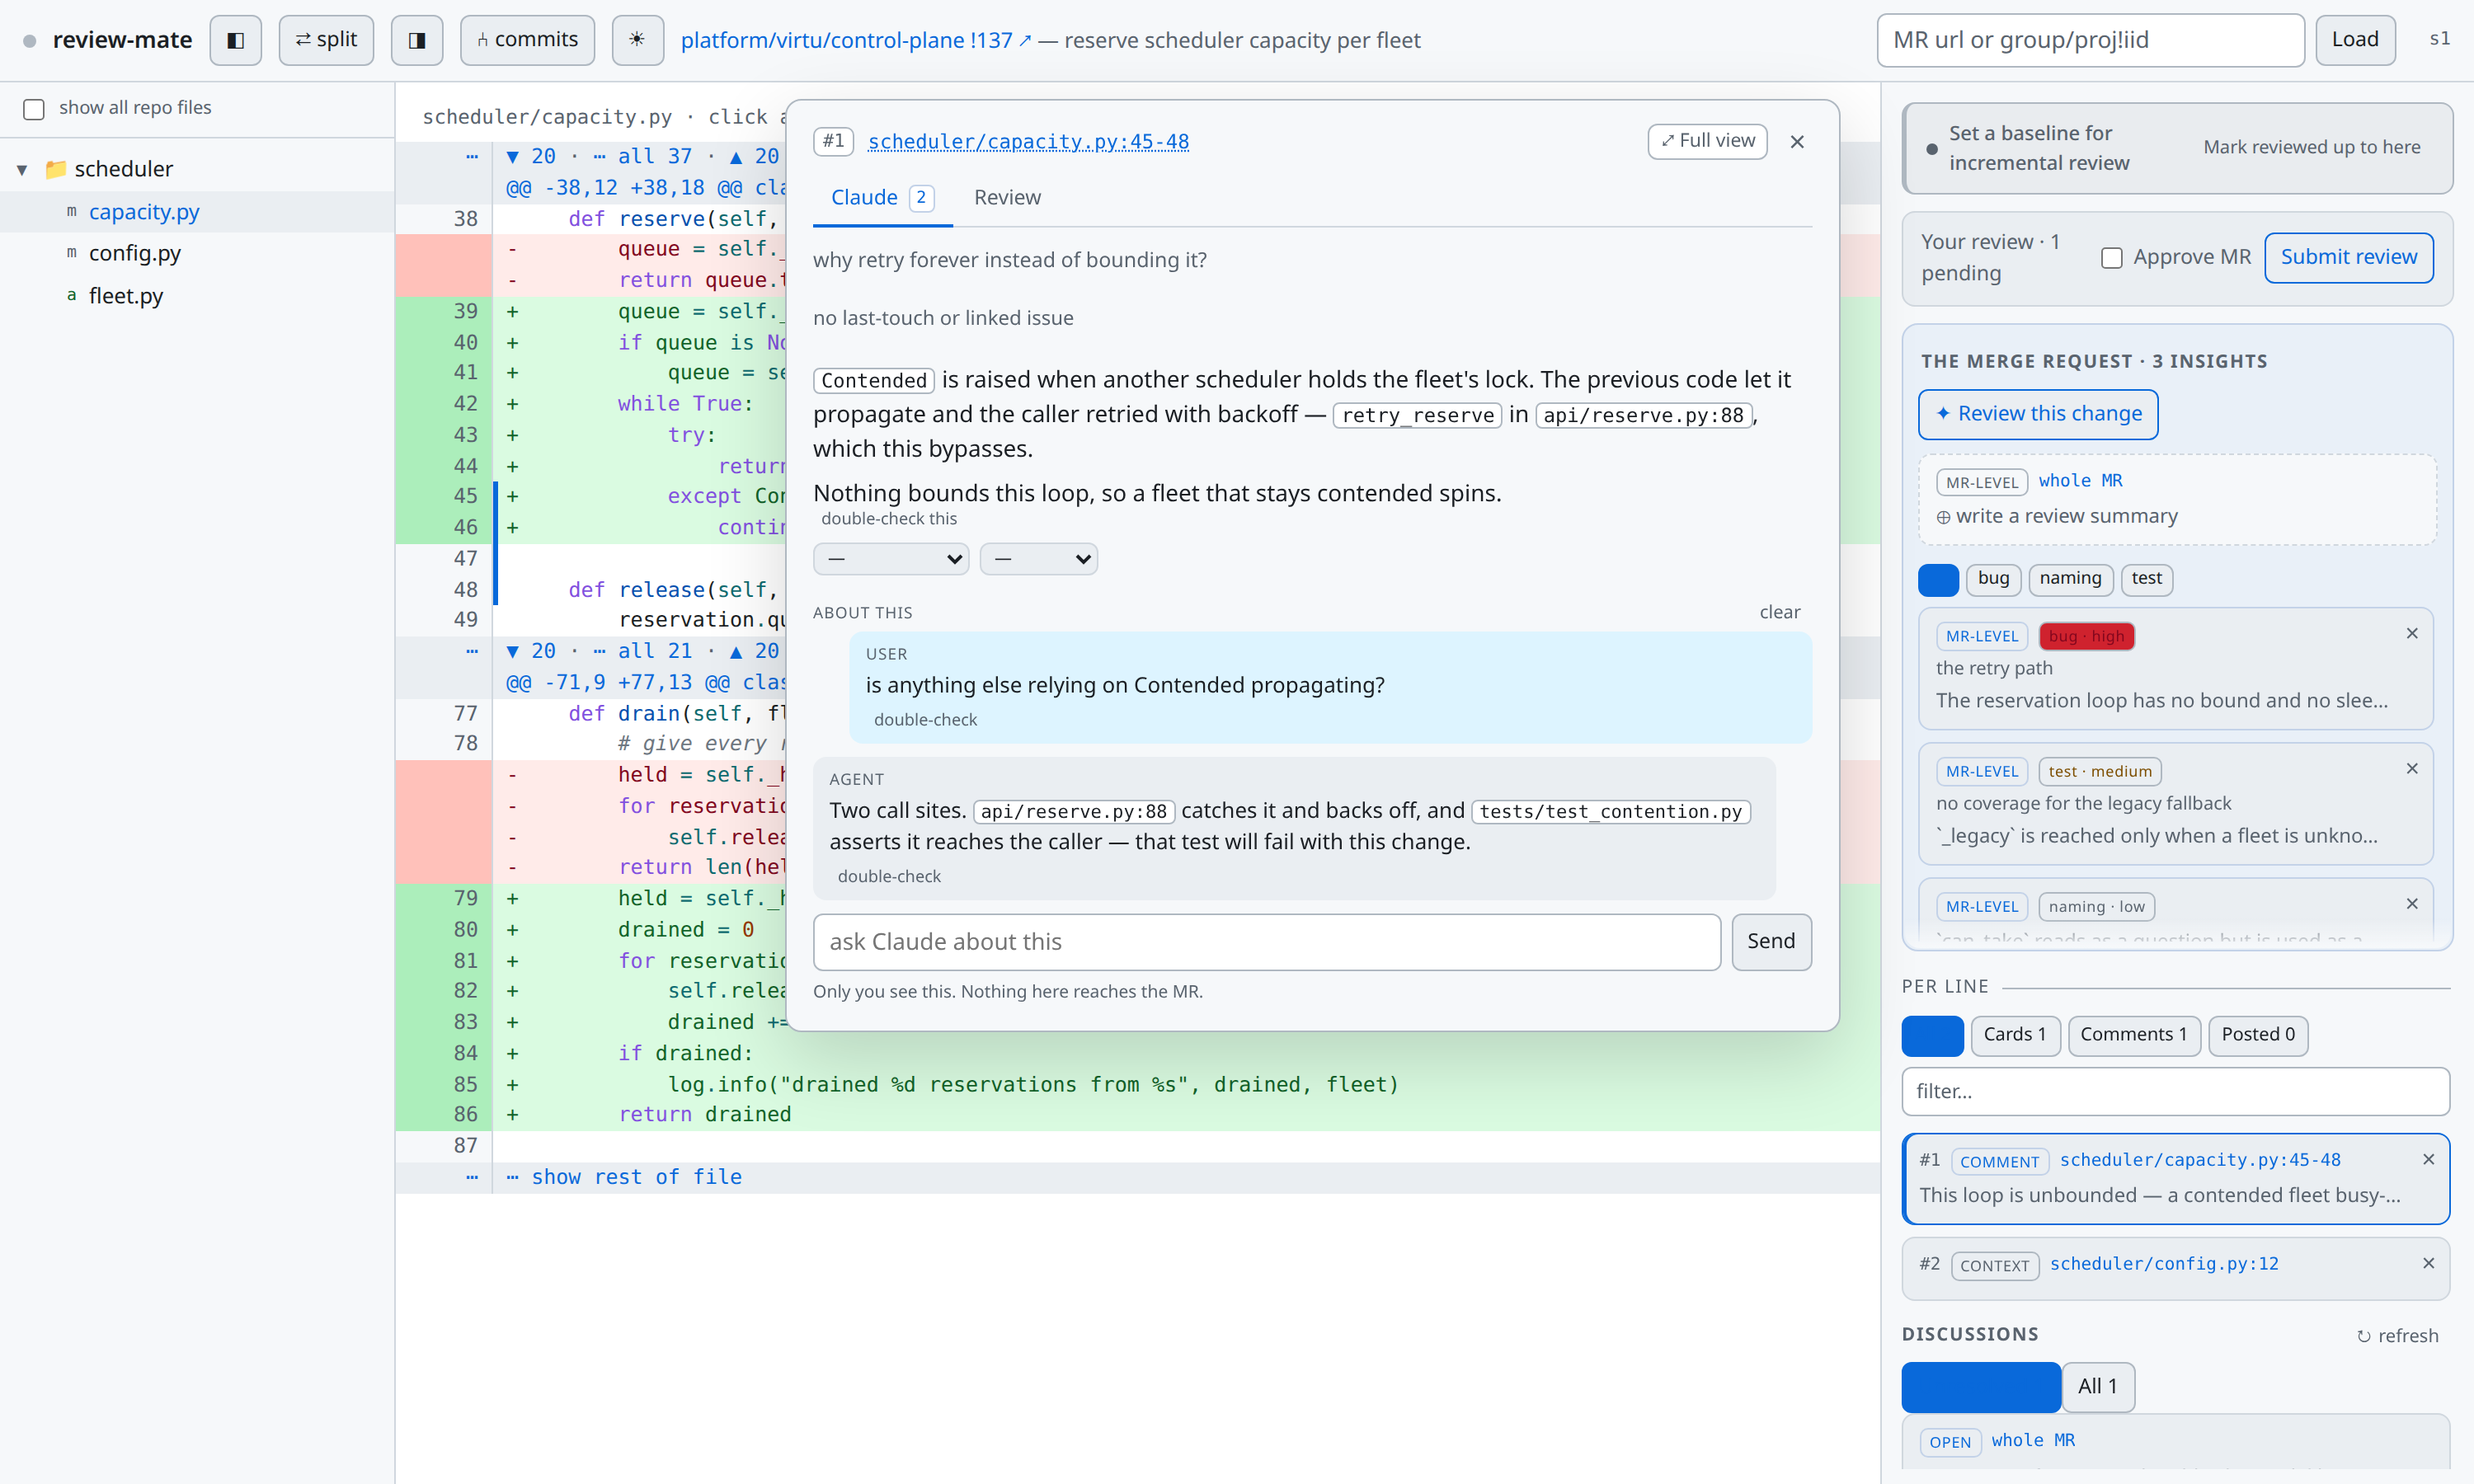
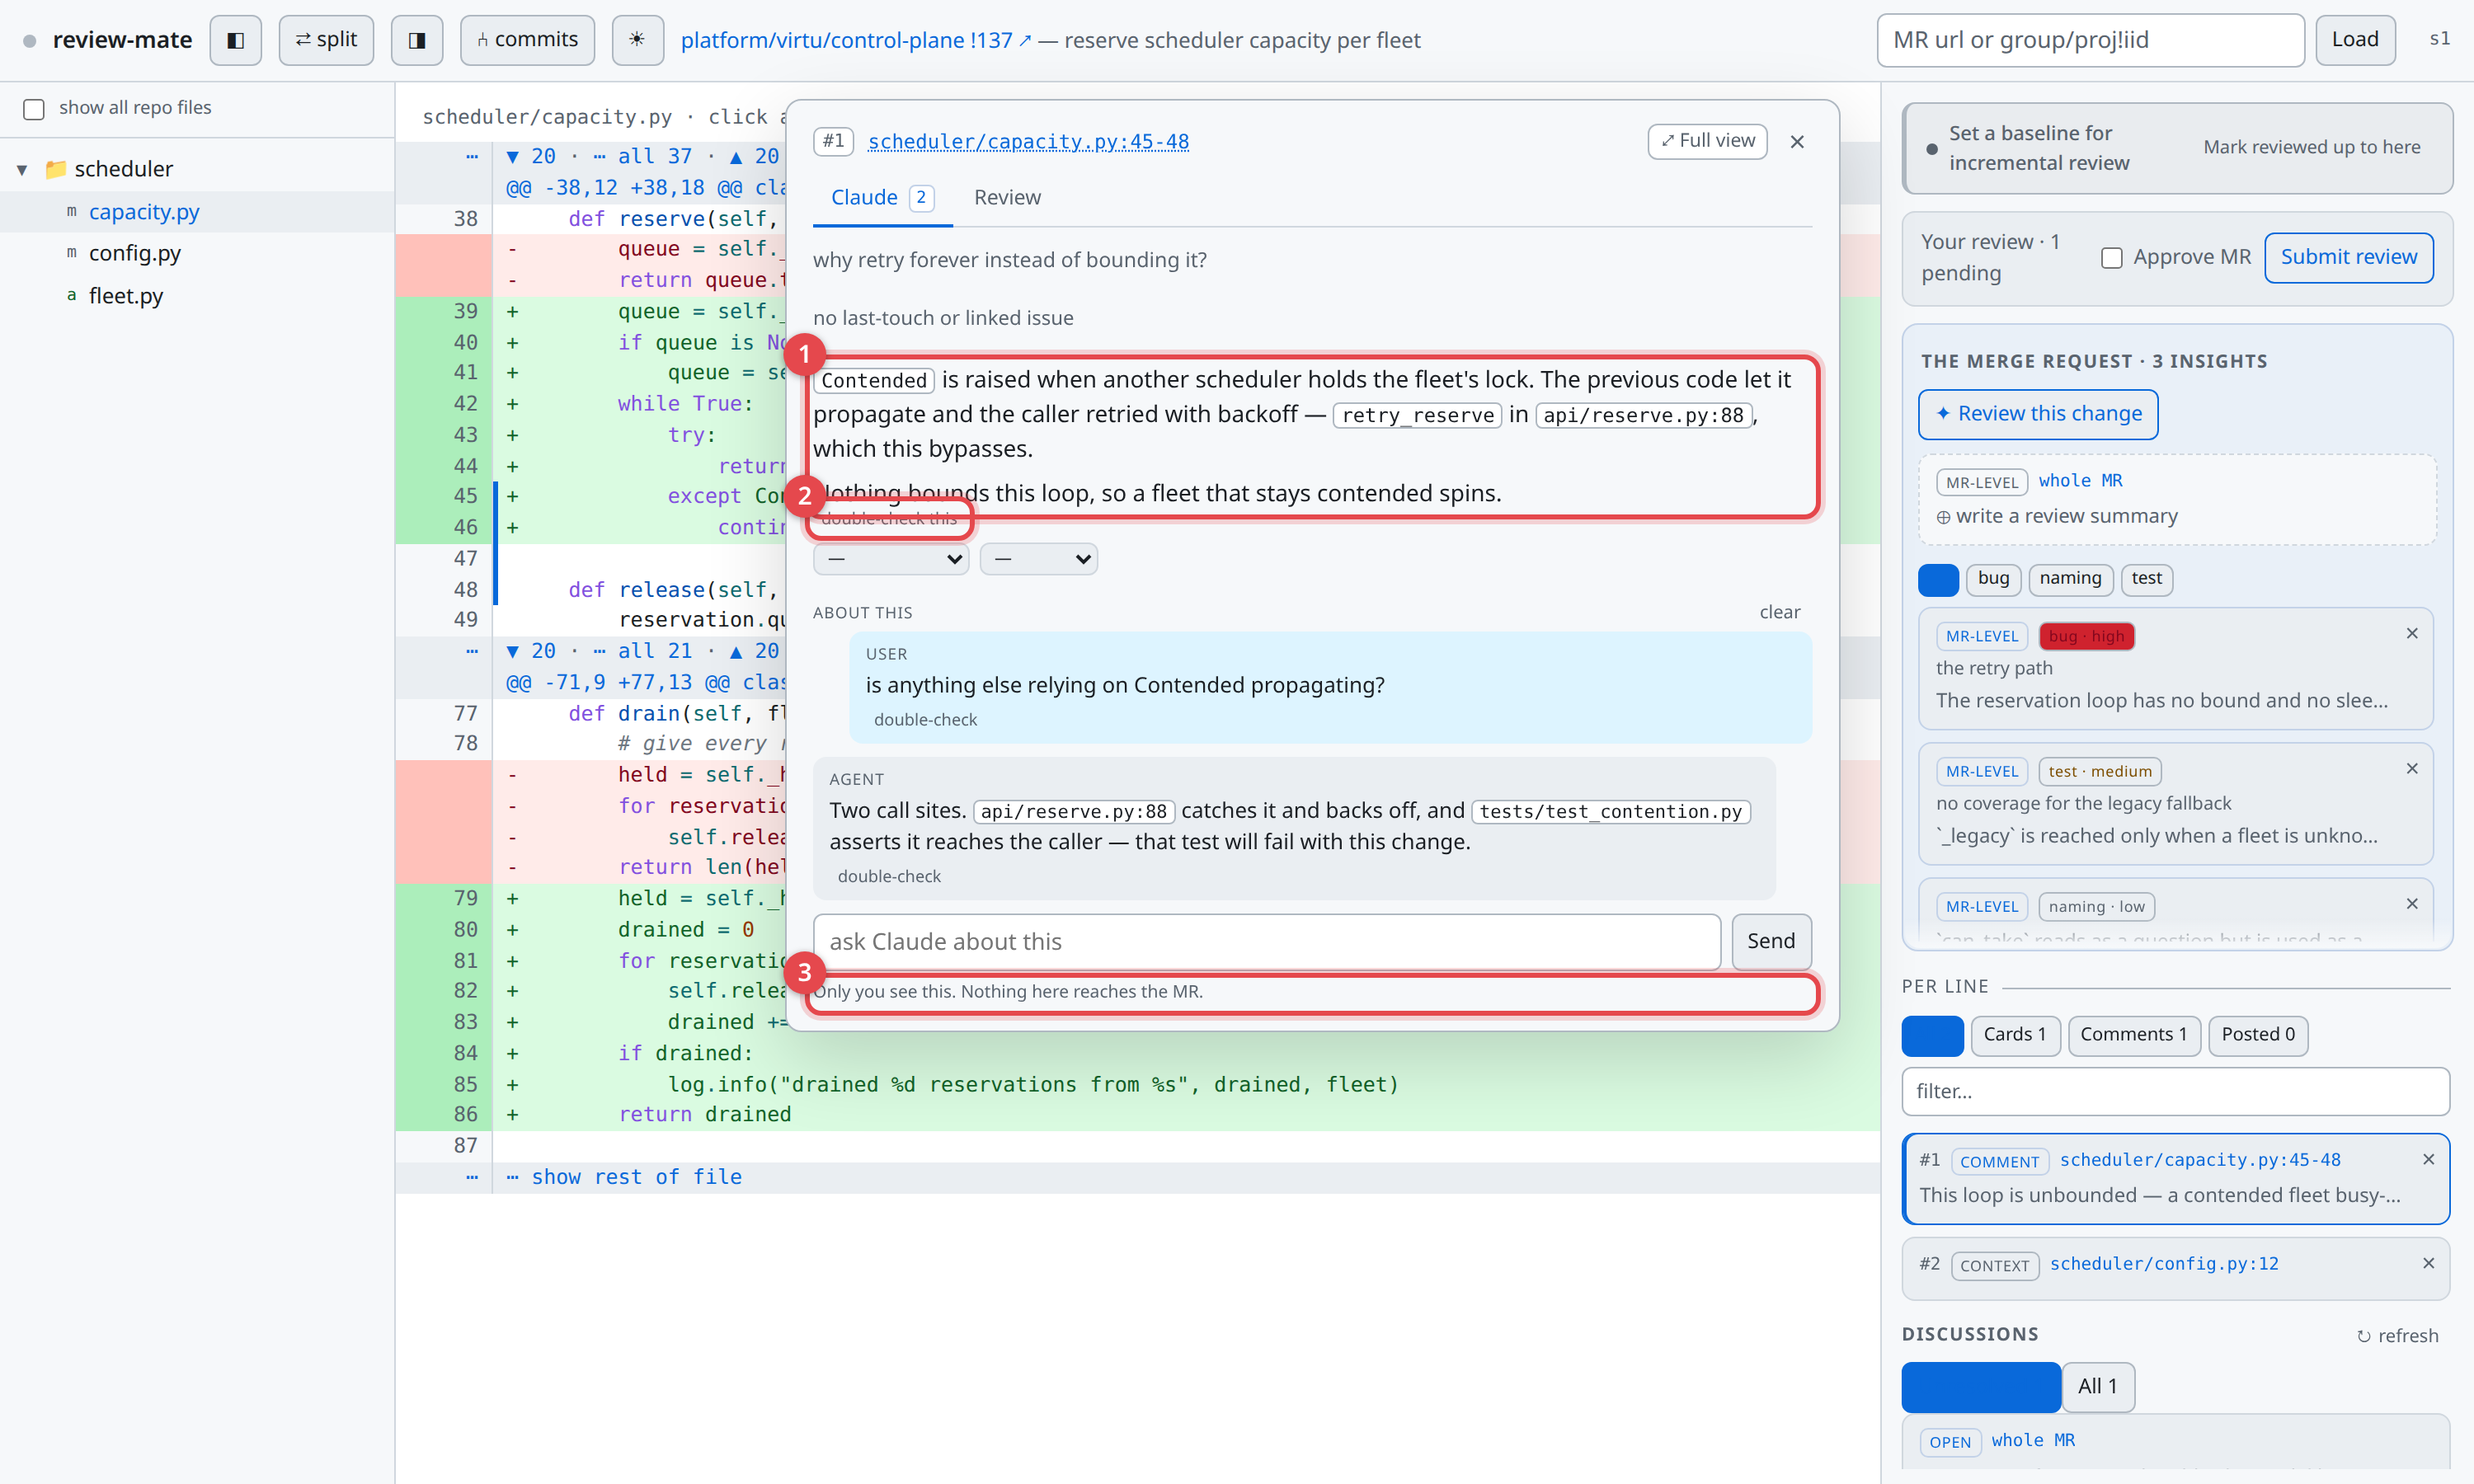
docs: point at the part of the screen each feature is about
Prose that says "the rail shows what you have marked" leaves the reader to find
the rail. Each screenshot that needed it now carries numbered rings, and the
paragraph beside it has a one-line legend, so a sentence and a control are tied
together rather than described near each other.

Anchored to selectors, not to coordinates. A ring is drawn from the element's
own rectangle at capture time, so it moves when the layout does — and if the
selector stops matching, the run fails rather than writing a picture with a ring
around empty space. That is the same rule the `shows` check follows, for the
same reason: an unverified claim about a picture is what put a second copy of
the diff under a caption about consent.

Rings rather than arrows. An arrow needs a direction and somewhere free to come
from, and choosing those automatically goes wrong more often than it helps; a
ring only needs the thing it is about.

They mark controls rather than regions. The first attempt ringed the file tree,
the diff and the rail — three panes whose locations the caption had already
given away, with the rings running off the edges. What is worth pointing at is
small: the button that asks for a pass, the chip that says how much a finding
matters, the note saying who else will see what you are writing.

Changed region(s): [[0.31, 0.2178, 0.744, 0.3733], [0.31, 0.6222, 0.744, 0.7156]]

diff --git a/tools/screenshots.py b/tools/screenshots.py
@@ -39,17 +39,66 @@ VIEWPORT = {"width": 1500, "height": 900}
 SHOTS: list = []
 
 
-def shot(name: str, description: str, shows: str):
-    """Register a shot. `shows` is a selector that must be visible when the picture is taken.
+def shot(name: str, description: str, shows: str, marks: tuple = ()):
+    """Register a shot.
 
-    Without it a mis-aimed shot is silent: the page renders *something*, the file is written, and
-    the caption claims a screen the picture does not contain. That happened — a shot meant to show
-    a consent prompt scrolled the wrong element and produced a second copy of the diff.
+    `shows` is a selector that must be visible when the picture is taken. Without it a mis-aimed
+    shot is silent: the page renders *something*, the file is written, and the caption claims a
+    screen the picture does not contain. That happened — a shot meant to show a consent prompt
+    scrolled the wrong element and produced a second copy of the diff.
+
+    `marks` are `(selector, label)` pairs, drawn as a ring around whatever the selector matches so
+    the prose can point at a part of the screen rather than describing where to look. Anchored to
+    the element and not to coordinates, so a ring cannot drift onto the wrong thing when the layout
+    changes — it either lands on what it names or the run fails.
     """
     def register(fn):
-        SHOTS.append((name, description, shows, fn))
+        SHOTS.append((name, description, shows, tuple(marks), fn))
         return fn
     return register
+
+
+# Drawn into the page rather than painted onto the file afterwards, so every ring is positioned
+# from the element's own rectangle. Rings rather than arrows: an arrow needs a direction and some
+# free space to come from, and picking those automatically goes wrong more often than it helps.
+_MARK_JS = """
+(marks) => {
+  const layer = document.createElement('div');
+  layer.id = '__marks';
+  layer.style.cssText = 'position:fixed;inset:0;z-index:99999;pointer-events:none';
+  document.body.appendChild(layer);
+  const missing = [];
+  const W = window.innerWidth, H = window.innerHeight;
+  marks.forEach(([selector, label]) => {
+    const el = document.querySelector(selector);
+    if (!el) { missing.push(selector); return; }
+    const r = el.getBoundingClientRect();
+    if (!r.width || !r.height) { missing.push(selector); return; }
+    const pad = 5;
+    // clamped to the viewport: a ring that runs off the picture reads as a rendering fault, and a
+    // badge outside it is simply not in the file
+    const left = Math.max(2, r.left - pad), top = Math.max(2, r.top - pad);
+    const right = Math.min(W - 2, r.right + pad), bottom = Math.min(H - 2, r.bottom + pad);
+    const ring = document.createElement('div');
+    ring.style.cssText =
+      `position:fixed;left:${left}px;top:${top}px;` +
+      `width:${right - left}px;height:${bottom - top}px;` +
+      'border:3px solid #e5484d;border-radius:10px;' +
+      'box-shadow:0 0 0 3px rgba(229,72,77,.22)';
+    layer.appendChild(ring);
+    if (!label) return;
+    const badge = document.createElement('div');
+    badge.textContent = label;
+    badge.style.cssText =
+      `position:fixed;left:${Math.max(2, left - 13)}px;top:${Math.max(2, top - 13)}px;` +
+      'width:26px;height:26px;border-radius:50%;background:#e5484d;color:#fff;' +
+      'font:600 15px/26px system-ui,sans-serif;text-align:center;' +
+      'box-shadow:0 1px 4px rgba(0,0,0,.35)';
+    layer.appendChild(badge);
+  });
+  return missing;
+}
+"""
 
 
 # --- the change under review ---------------------------------------------------
@@ -201,7 +250,8 @@ def _hub(page, base, stage):
 
 
 @shot("diff", "reading a change: the file tree, the diff, and the rail beside it",
-      shows="table.hunk .add")
+      shows="table.hunk .add",
+      marks=(("table.hunk tr.expand", "1"), (".rail .hrow", "2")))
 def _diff(page, base, stage):
     stage(showcase())
     _open(page, base)
@@ -217,7 +267,9 @@ def _side_by_side(page, base, stage):
 
 
 @shot("claude-channel", "what Claude found on a line, and the conversation under it",
-      shows="#detail .card")
+      shows="#detail .card",
+      marks=(("#detail .card", "1"), ("#detail .noteacts .btn", "2"),
+             ("#detail .channelnote", "3")))
 def _claude(page, base, stage):
     stage(showcase())
     _open(page, base)
@@ -227,7 +279,9 @@ def _claude(page, base, stage):
 
 
 @shot("review-channel", "the comment you are preparing, which nobody else sees yet",
-      shows="#detail textarea.draftbox")
+      shows="#detail textarea.draftbox",
+      marks=(("#detail textarea.draftbox", "1"), ("#detail .channelnote", "2"),
+             (".reviewbar .btn, .rbar .btn", "3")))
 def _review(page, base, stage):
     stage(showcase())
     _open(page, base)
@@ -237,7 +291,9 @@ def _review(page, base, stage):
 
 
 @shot("insights", "Claude's own read of the change, worst first",
-      shows=".railpin .railinsights .chip.crit")
+      shows=".railpin .railinsights .chip.crit",
+      marks=((".passrow .btn", "1"), (".railpin .railinsights .chip.crit", "2"),
+             (".railpin .themes", "3")))
 def _insights(page, base, stage):
     stage(showcase())
     _open(page, base)
@@ -246,7 +302,8 @@ def _insights(page, base, stage):
 
 
 @shot("consent", "Claude asking to read another repository, and nothing read until you answer",
-      shows=".rail .req button")
+      shows=".rail .req button",
+      marks=((".rail .req .why", "1"), (".rail .req button", "2")))
 def _consent(page, base, stage):
     stage(showcase())
     _open(page, base)
@@ -255,7 +312,8 @@ def _consent(page, base, stage):
 
 
 @shot("self-review", "reviewing your own branch: no merge request, and fixes landing as you comment",
-      shows=".chip.fixed")
+      shows=".chip.fixed",
+      marks=(("#mr", "1"), (".chip.fixed", "2")))
 def _self_review(page, base, stage):
     stage(branch_review())
     _open(page, base)
@@ -323,7 +381,7 @@ def main() -> int:
     written = []
     with sync_playwright() as pw:
         browser = pw.chromium.launch()
-        for name, description, shows, take in SHOTS:
+        for name, description, shows, marks, take in SHOTS:
             page = browser.new_page(viewport=VIEWPORT, device_scale_factor=2)
             try:
                 take(page, base, stage)
@@ -331,6 +389,12 @@ def main() -> int:
                     raise SystemExit(
                         f"{name}: nothing matching {shows!r} is on screen, so the picture would "
                         f"not show what it claims — fix the shot rather than the caption")
+                if marks:
+                    missing = page.evaluate(_MARK_JS, [list(m) for m in marks])
+                    if missing:
+                        raise SystemExit(
+                            f"{name}: nothing to mark for {missing} — the ring would point at "
+                            f"nothing, so fix the selector rather than dropping the callout")
                 target = IMAGES / f"{name}.png"
                 page.screenshot(path=str(target))
                 written.append((name, description, target.stat().st_size))

diff --git a/docs/features.md b/docs/features.md
@@ -23,6 +23,9 @@ open, it was merged or closed.
 
 ![A change, its files, and the rail](images/diff.png)
 
+> ① the context between hunks, unfolded a screen at a time or all at once · ② the rail: everything
+> you have marked and everything Claude has said
+
 The file tree on the left, the diff in the middle, the rail on the right. Syntax highlighting, a
 per-file view, and the hunks' surrounding context available inline — unfold between hunks, or open
 the rest of the file, read at the merge request's head.
@@ -45,6 +48,9 @@ hundred new files.
 
 ![A card on a highlight, and the conversation beneath it](images/claude-channel.png)
 
+> ① what Claude found, anchored to the lines you marked · ② doubt a claim and ask for it to be
+> verified · ③ the reminder that this channel is yours alone
+
 Drag over the diff to mark a range. That alone gets you the **cheap tier** immediately: who last
 touched those lines, which issues reference them — host facts, no agent involved and no agent turn
 spent.
@@ -60,6 +66,9 @@ a lost one.
 
 ![MR-level findings, ordered by what matters](images/insights.png)
 
+> ① ask for a pass over the whole change · ② what a finding is about, and how much it matters ·
+> ③ narrow the list to one kind
+
 **Review this change** asks for a pass over the whole thing, alongside your own rather than instead
 of it. What comes back is classified — what each finding is about, and how much it matters — so
 forty findings are a list you can read worst-first or narrow to one kind, rather than one you read
@@ -71,6 +80,8 @@ keeps the finding and fixes the label.
 
 ![Consent for another repository](images/consent.png)
 
+> ① why it wants the repository · ② your answer, and nothing is read until you give one
+
 Claude asks before reading anything outside the change, and nothing is read until you answer. A
 refusal stays visible — an agent asking again for what you refused reads differently from one asking
 the first time.
@@ -78,6 +89,9 @@ the first time.
 ## Writing the review
 
 ![The comment you are preparing](images/review-channel.png)
+
+> ① the comment, editable until you send it · ② who will see it, once you do · ③ what is waiting to
+> go, and the approval that can go with it
 
 Each highlight can carry a comment, and so can the merge request as a whole. Nothing reaches the
 host until you submit: you write the whole review, read it back, and send it in one go — with the
@@ -89,6 +103,9 @@ thread to the line it is anchored to, reply, resolve, and edit or delete your ow
 ## Reviewing your own work first
 
 ![A branch under review, with a fix already landed](images/self-review.png)
+
+> ① named by where it is going, since there is no merge request number to show · ② the agent
+> changed the code here, so its lines moving is progress rather than a warning
 
 The same review, of a branch that has not left your machine — no merge request, nothing to post to,
 and no one else reading it yet. It is for work an agent has just written, read by the person about
